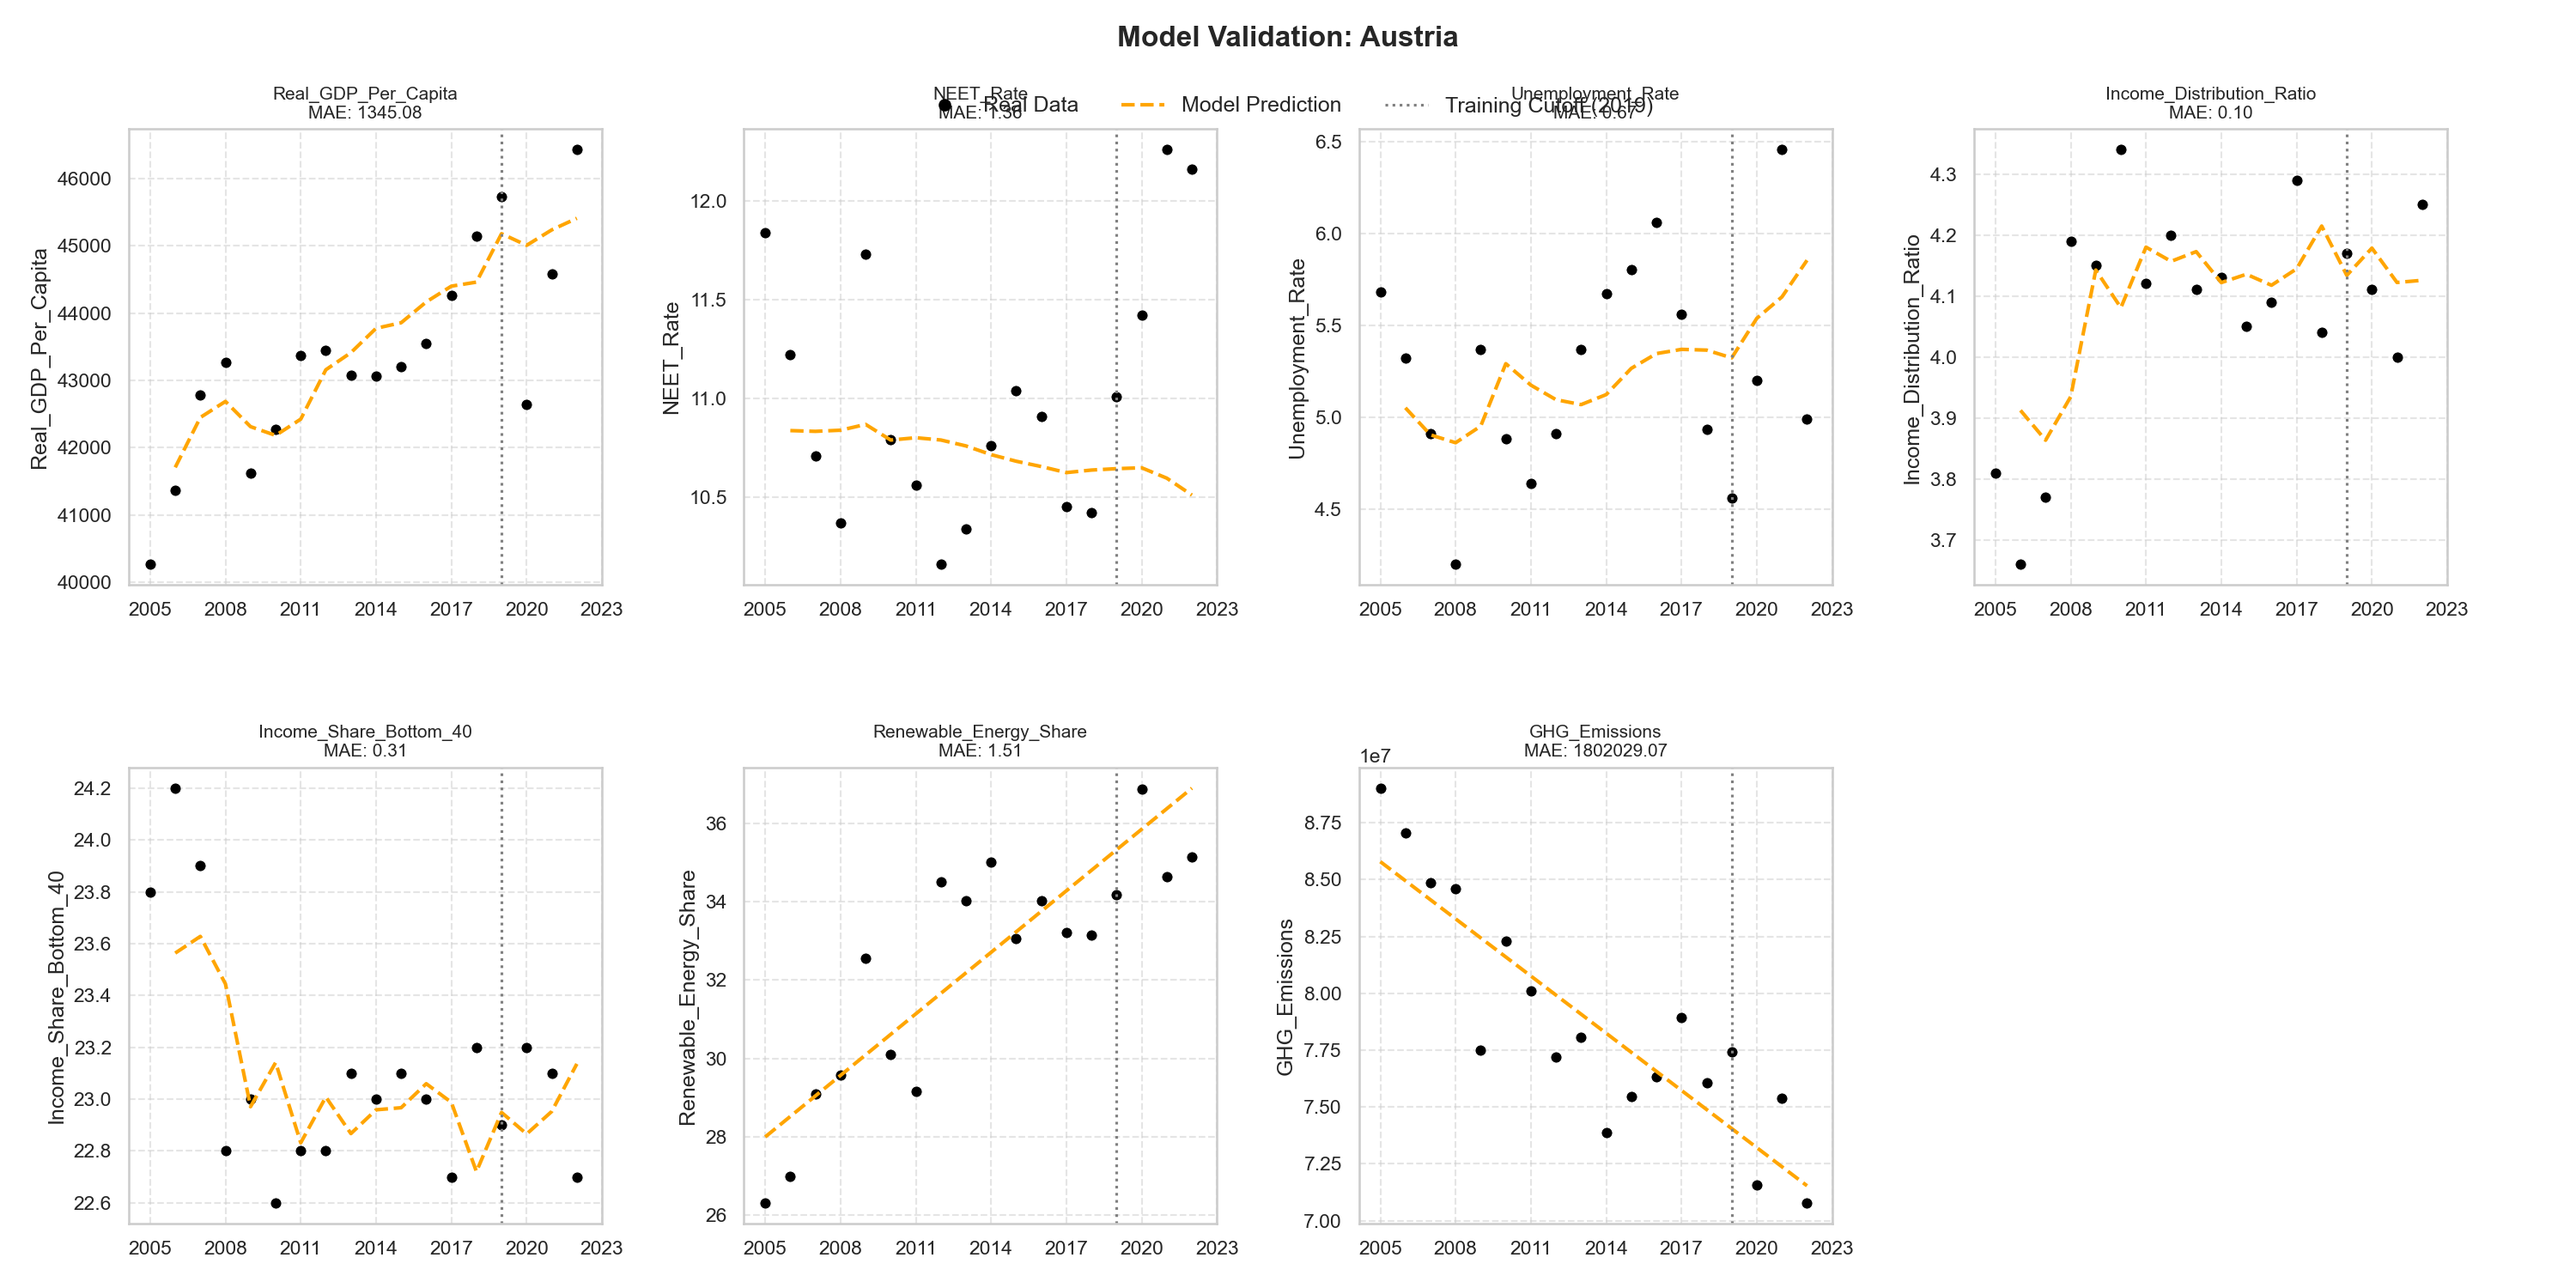
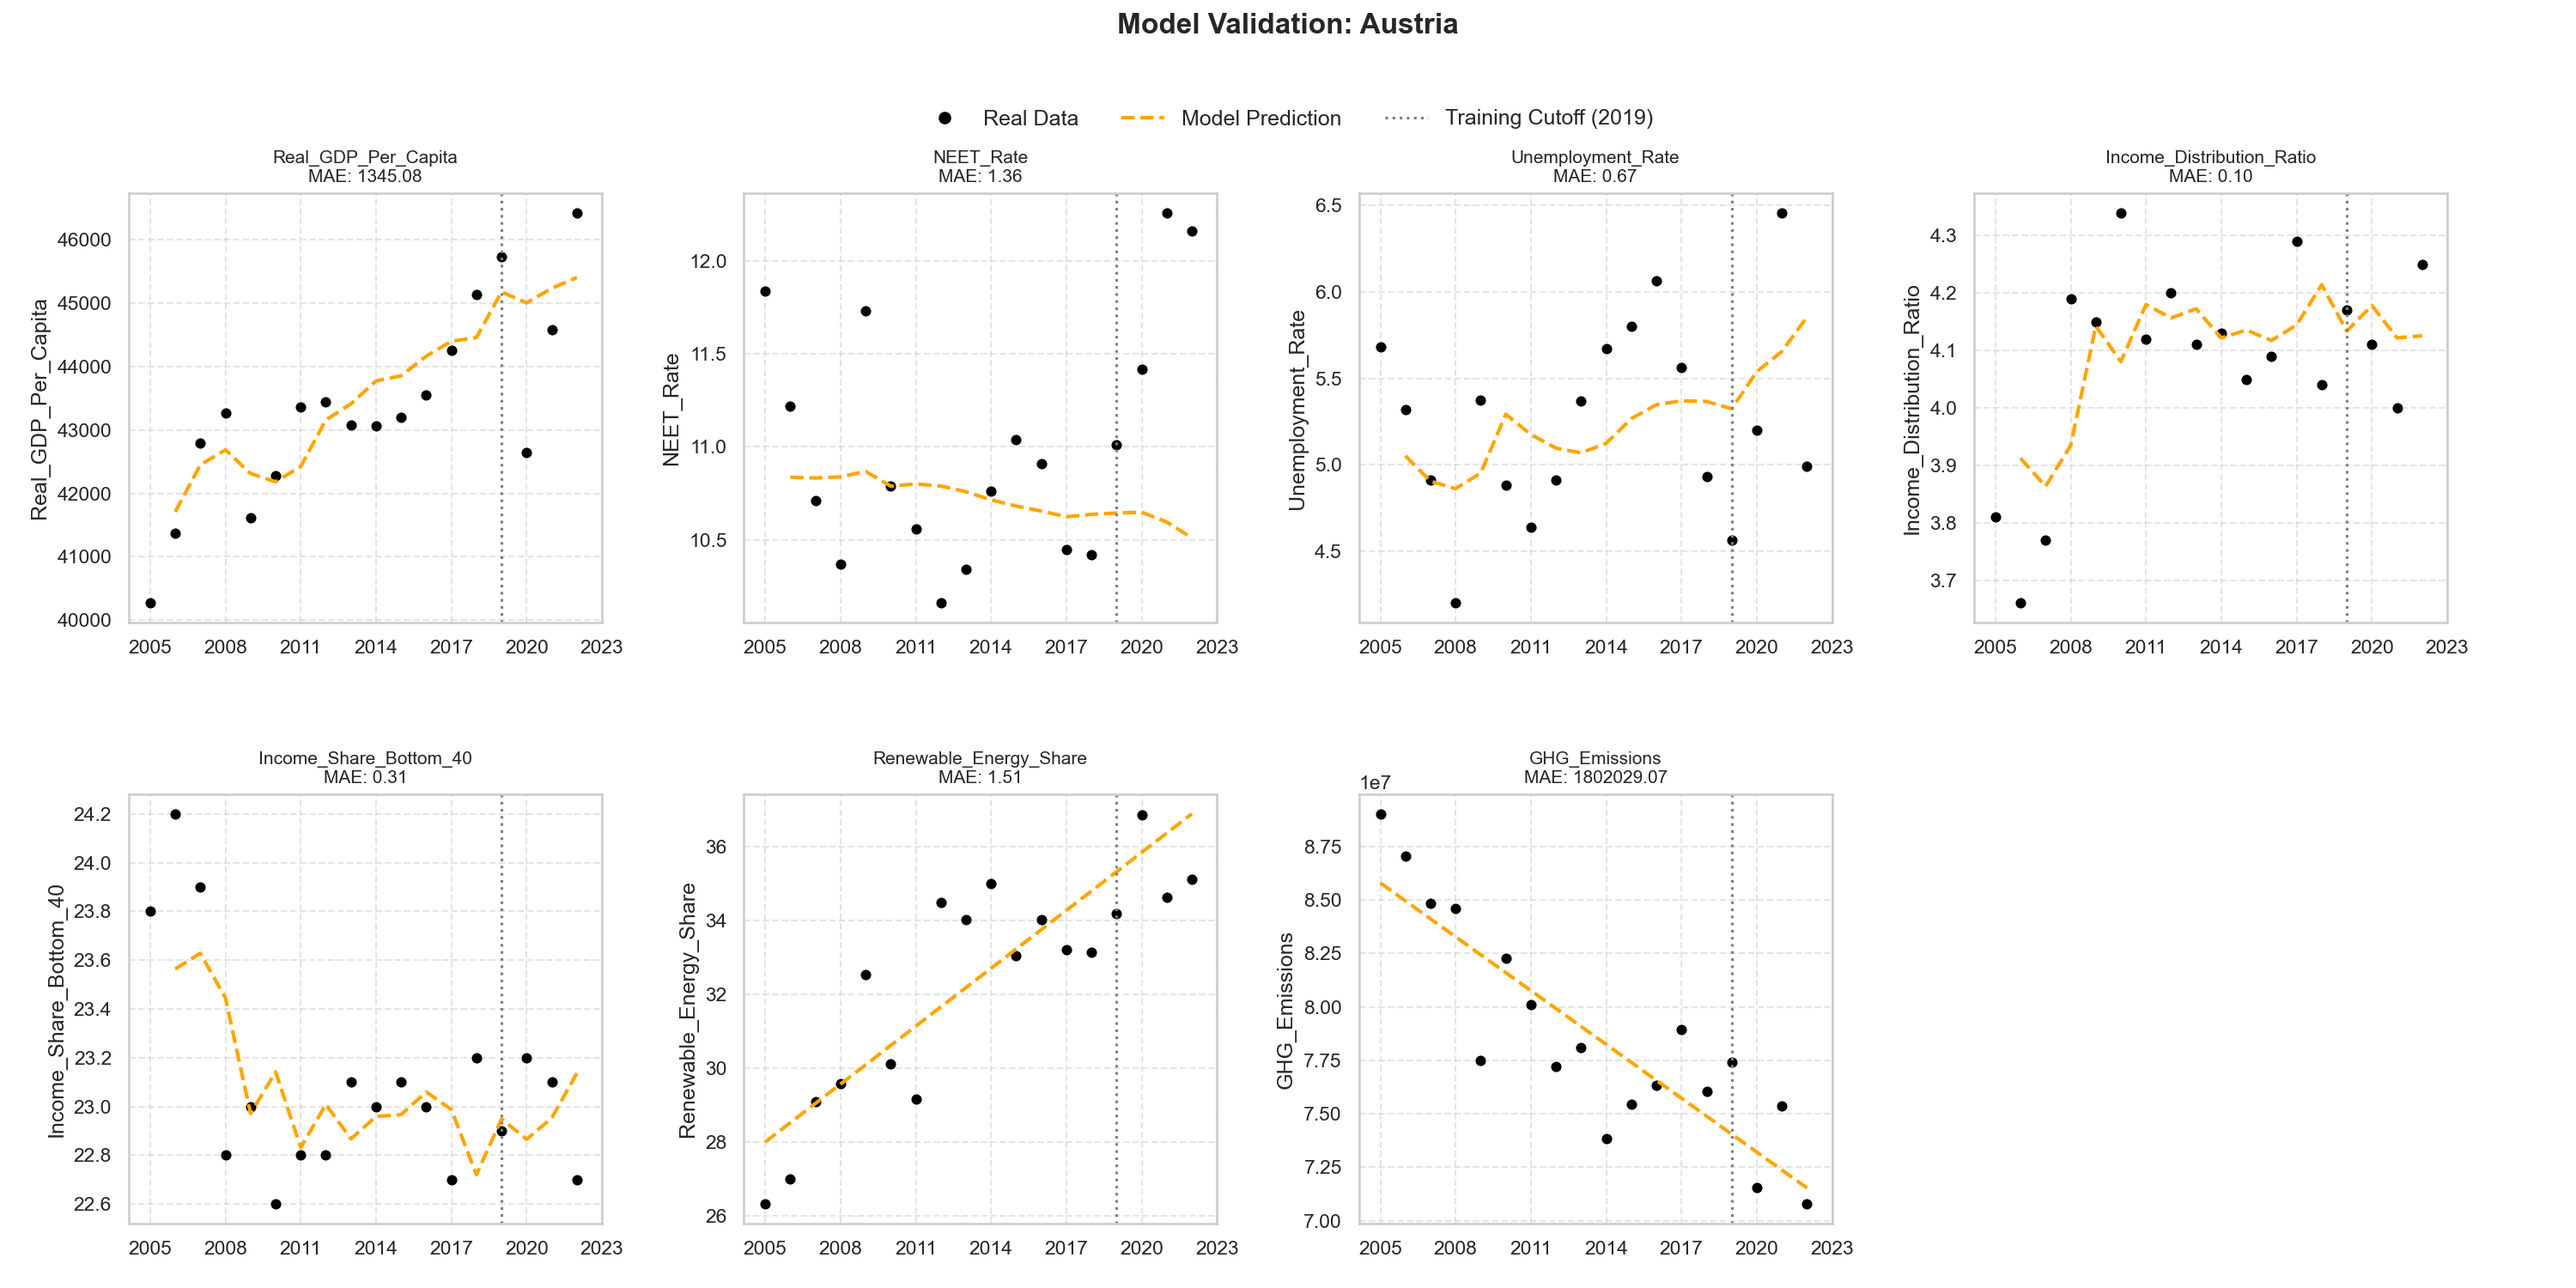
I changed the legend on the graphs

diff --git a/src/model_validation.py b/src/model_validation.py
@@ -75,7 +75,7 @@ for country in countries:
         continue
 
     fig, axes = plt.subplots(2, 4, figsize=(20, 10))
-    fig.suptitle(f"Model Validation: {country}", fontsize=16, weight='bold', y=0.98)
+    fig.suptitle(f"Model Validation: {country}", fontsize=16, weight='bold', y=0.99)
     axes_flat = axes.flatten() 
 
     for i, col in enumerate(numeric_cols):
@@ -145,12 +145,10 @@ for country in countries:
         mlines.Line2D([], [], color='gray', linestyle=':', linewidth=1.5, label='Training Cutoff (2019)')
     ]
 
-    fig.legend(handles=legend_elements, loc='upper center', bbox_to_anchor=(0.5, 0.94), 
+    fig.legend(handles=legend_elements, loc='upper center', bbox_to_anchor=(0.5, 0.93), 
                ncol=3, frameon=False, fontsize=12)
     
-    # I replace tight_layout with manual adjustment to avoid hanging/freezing issues in Python 3.13
-    # plt.tight_layout(rect=[0, 0.03, 1, 0.90])
-    plt.subplots_adjust(top=0.90, bottom=0.05, left=0.05, right=0.95, hspace=0.4, wspace=0.3)
+    plt.subplots_adjust(top=0.85, bottom=0.05, left=0.05, right=0.95, hspace=0.4, wspace=0.3)
     
     filename = f"{output_dir}/{country}_validation.png"
     plt.savefig(filename, dpi=150)
